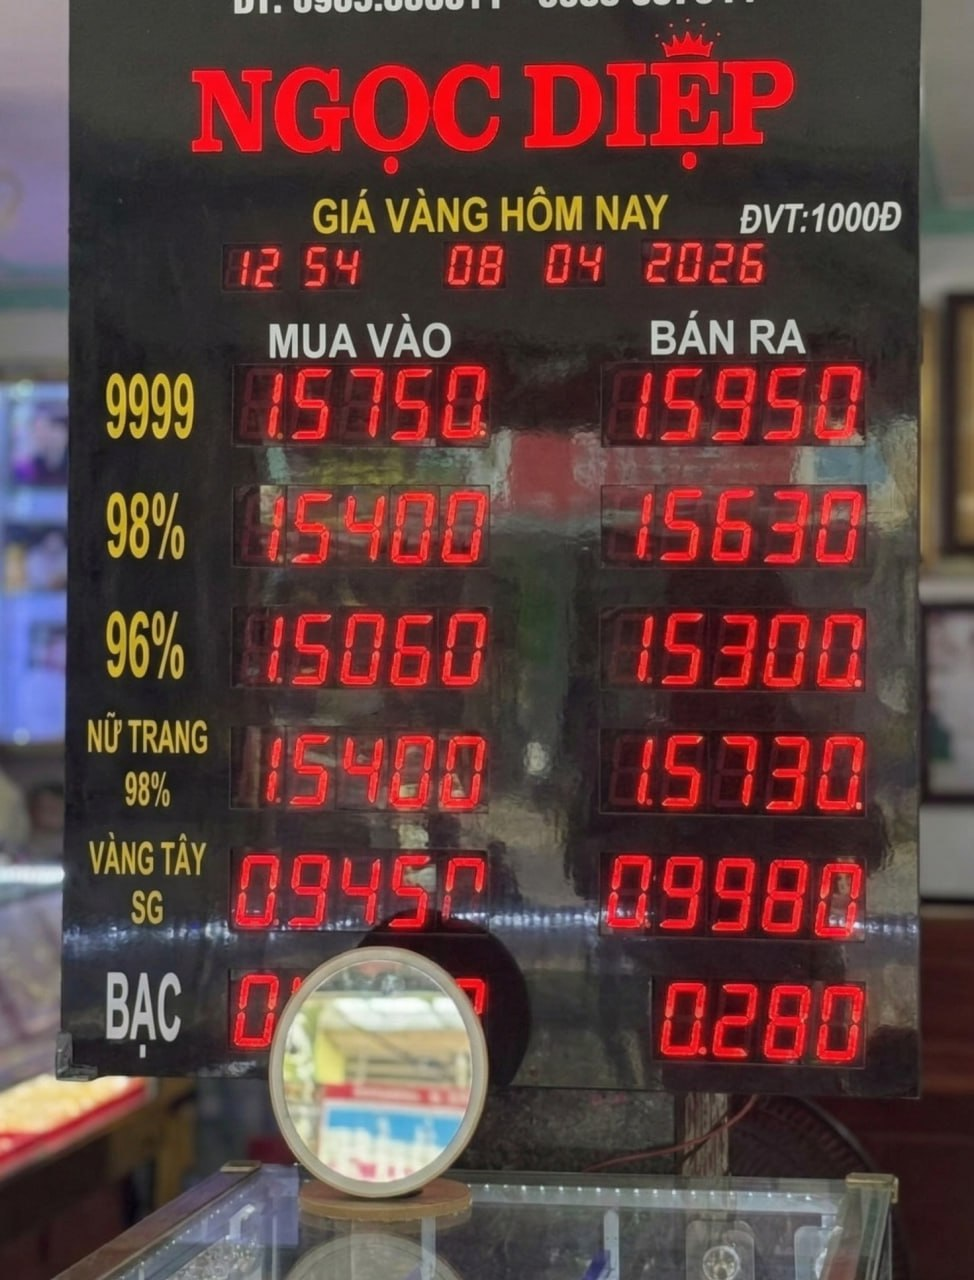
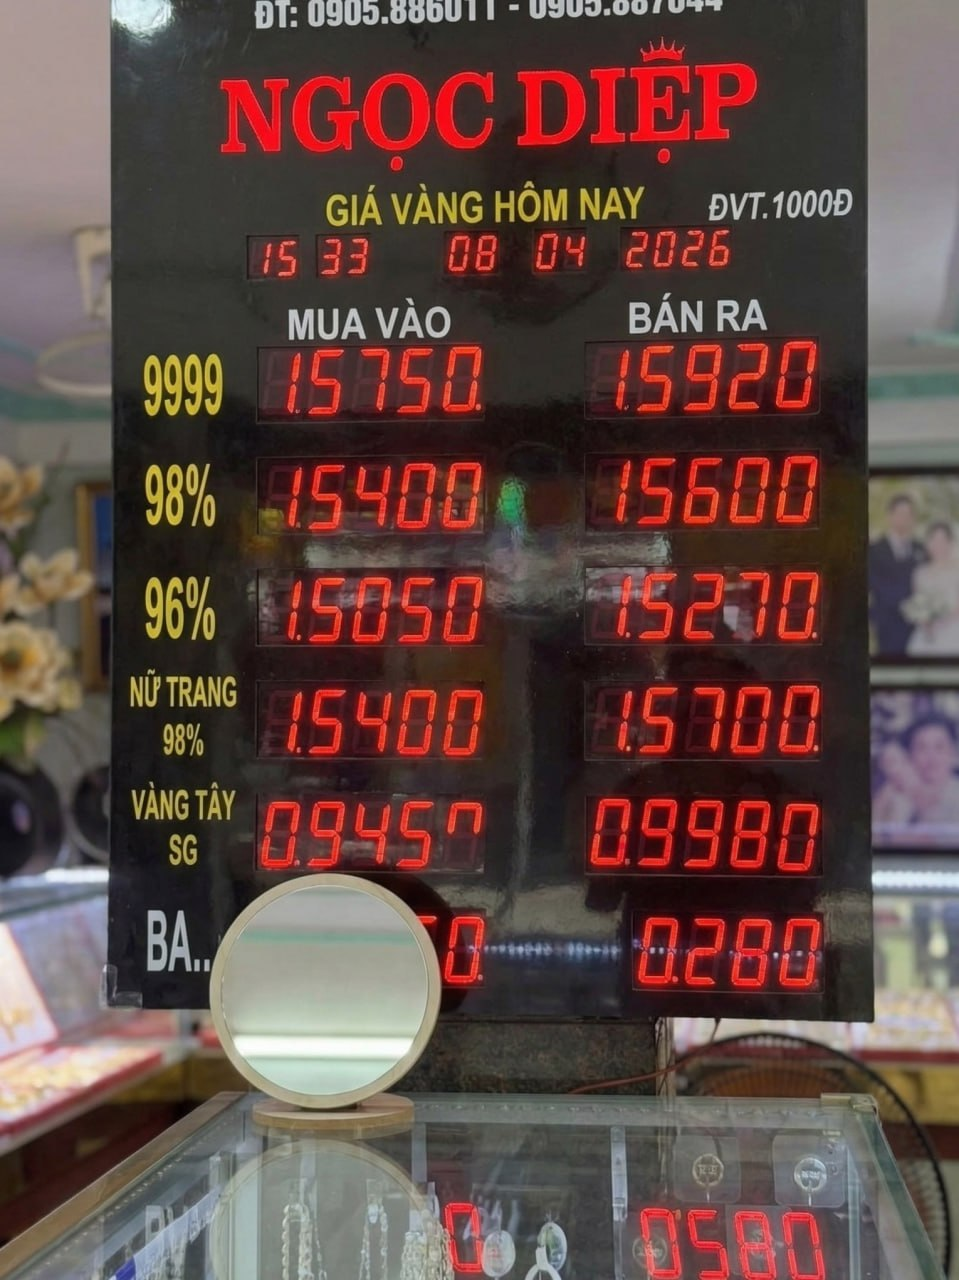
Update ngoc-diep price image (16:09)

diff --git a/app/data/goldShops.ts b/app/data/goldShops.ts
@@ -12,7 +12,7 @@ export const GOLD_SHOPS: GoldShop[] = [
     name: "Ngọc Diệp",
     location: "Đà Nẵng",
     image: "images/ngoc-diep.jpg",
-    updatedAt: "13:35",
+    updatedAt: "16:09",
   },
   {
     id: "ngoc-thinh",
